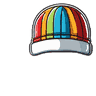
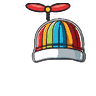
keybeasts: the propeller cap gets a propeller
New sprite with a red two-blade propeller on top of the rainbow cap, renamed from Regenboogpet to Propellerpet and placed slightly smaller so the propeller stays in frame.

diff --git a/plugins/keybeasts/hooks/anchors.ts b/plugins/keybeasts/hooks/anchors.ts
@@ -19,7 +19,7 @@ export const HAT_PLACE: Record<string, Record<string, { x: number; y: number; w:
     muts: { x: 16.8, y: -10.7, w: 125.2 },
     koptelefoon: { x: 24.0, y: 23.0, w: 112 },
     cowboyhoed: { x: 21.8, y: -11.7, w: 110.7 },
-    propellerpet: { x: 18.1, y: -2.1, w: 98.2 },
+    propellerpet: { x: 25.2, y: -2.0, w: 94.7 },
     hogehoed: { x: 31.9, y: -3.4, w: 84.0 },
     piratenhoed: { x: 35.2, y: -12.1, w: 89.6 },
     tovenaarshoed: { x: 40.8, y: -3.9, w: 78.4 },
@@ -32,7 +32,7 @@ export const HAT_PLACE: Record<string, Record<string, { x: number; y: number; w:
     muts: { x: 16.8, y: -10.7, w: 125.2 },
     koptelefoon: { x: 24.0, y: 23.0, w: 112 },
     cowboyhoed: { x: 21.8, y: -11.7, w: 110.7 },
-    propellerpet: { x: 18.1, y: -2.1, w: 98.2 },
+    propellerpet: { x: 25.2, y: -2.0, w: 94.7 },
     hogehoed: { x: 31.9, y: -3.4, w: 84.0 },
     piratenhoed: { x: 35.2, y: -12.1, w: 89.6 },
     tovenaarshoed: { x: 40.8, y: -3.9, w: 78.4 },
@@ -45,7 +45,7 @@ export const HAT_PLACE: Record<string, Record<string, { x: number; y: number; w:
     muts: { x: 16.8, y: -10.7, w: 125.2 },
     koptelefoon: { x: 24.0, y: 23.0, w: 112 },
     cowboyhoed: { x: 21.8, y: -11.7, w: 110.7 },
-    propellerpet: { x: 18.1, y: -2.1, w: 98.2 },
+    propellerpet: { x: 25.2, y: -2.0, w: 94.7 },
     hogehoed: { x: 31.9, y: -3.4, w: 84.0 },
     piratenhoed: { x: 35.2, y: -12.1, w: 89.6 },
     tovenaarshoed: { x: 40.8, y: -3.9, w: 78.4 },
@@ -58,7 +58,7 @@ export const HAT_PLACE: Record<string, Record<string, { x: number; y: number; w:
     muts: { x: 16.8, y: -10.7, w: 125.2 },
     koptelefoon: { x: 24.0, y: 23.0, w: 112 },
     cowboyhoed: { x: 21.8, y: -11.7, w: 110.7 },
-    propellerpet: { x: 18.1, y: -2.1, w: 98.2 },
+    propellerpet: { x: 25.2, y: -2.0, w: 94.7 },
     hogehoed: { x: 31.9, y: -3.4, w: 84.0 },
     piratenhoed: { x: 35.2, y: -12.1, w: 89.6 },
     tovenaarshoed: { x: 40.8, y: -3.9, w: 78.4 },
@@ -71,7 +71,7 @@ export const HAT_PLACE: Record<string, Record<string, { x: number; y: number; w:
     muts: { x: 16.8, y: -10.7, w: 125.2 },
     koptelefoon: { x: 24.0, y: 23.0, w: 112 },
     cowboyhoed: { x: 21.8, y: -11.7, w: 110.7 },
-    propellerpet: { x: 18.1, y: -2.1, w: 98.2 },
+    propellerpet: { x: 25.2, y: -2.0, w: 94.7 },
     hogehoed: { x: 31.9, y: -3.4, w: 84.0 },
     piratenhoed: { x: 35.2, y: -12.1, w: 89.6 },
     tovenaarshoed: { x: 40.8, y: -3.9, w: 78.4 },
@@ -84,7 +84,7 @@ export const HAT_PLACE: Record<string, Record<string, { x: number; y: number; w:
     muts: { x: 16.8, y: -10.7, w: 125.2 },
     koptelefoon: { x: 24.0, y: 23.0, w: 112 },
     cowboyhoed: { x: 21.8, y: -11.7, w: 110.7 },
-    propellerpet: { x: 18.1, y: -2.1, w: 98.2 },
+    propellerpet: { x: 25.2, y: -2.0, w: 94.7 },
     hogehoed: { x: 31.9, y: -3.4, w: 84.0 },
     piratenhoed: { x: 35.2, y: -12.1, w: 89.6 },
     tovenaarshoed: { x: 40.8, y: -3.9, w: 78.4 },
@@ -97,7 +97,7 @@ export const HAT_PLACE: Record<string, Record<string, { x: number; y: number; w:
     muts: { x: 16.8, y: -10.7, w: 125.2 },
     koptelefoon: { x: 24.0, y: 23.0, w: 112 },
     cowboyhoed: { x: 21.8, y: -11.7, w: 110.7 },
-    propellerpet: { x: 18.1, y: -2.1, w: 98.2 },
+    propellerpet: { x: 25.2, y: -2.0, w: 94.7 },
     hogehoed: { x: 31.9, y: -3.4, w: 84.0 },
     piratenhoed: { x: 35.2, y: -12.1, w: 89.6 },
     tovenaarshoed: { x: 40.8, y: -3.9, w: 78.4 },
@@ -110,7 +110,7 @@ export const HAT_PLACE: Record<string, Record<string, { x: number; y: number; w:
     muts: { x: 16.8, y: -10.7, w: 125.2 },
     koptelefoon: { x: 24.0, y: 23.0, w: 112 },
     cowboyhoed: { x: 21.8, y: -11.7, w: 110.7 },
-    propellerpet: { x: 18.1, y: -2.1, w: 98.2 },
+    propellerpet: { x: 25.2, y: -2.0, w: 94.7 },
     hogehoed: { x: 31.9, y: -3.4, w: 84.0 },
     piratenhoed: { x: 35.2, y: -12.1, w: 89.6 },
     tovenaarshoed: { x: 40.8, y: -3.9, w: 78.4 },
@@ -123,7 +123,7 @@ export const HAT_PLACE: Record<string, Record<string, { x: number; y: number; w:
     muts: { x: 16.8, y: -10.7, w: 125.2 },
     koptelefoon: { x: 24.0, y: 23.0, w: 112 },
     cowboyhoed: { x: 21.8, y: -11.7, w: 110.7 },
-    propellerpet: { x: 18.1, y: -2.1, w: 98.2 },
+    propellerpet: { x: 25.2, y: -2.0, w: 94.7 },
     hogehoed: { x: 31.9, y: -3.4, w: 84.0 },
     piratenhoed: { x: 35.2, y: -12.1, w: 89.6 },
     tovenaarshoed: { x: 40.8, y: -3.9, w: 78.4 },
@@ -136,7 +136,7 @@ export const HAT_PLACE: Record<string, Record<string, { x: number; y: number; w:
     muts: { x: 16.8, y: -10.7, w: 125.2 },
     koptelefoon: { x: 24.0, y: 23.0, w: 112 },
     cowboyhoed: { x: 21.8, y: -11.7, w: 110.7 },
-    propellerpet: { x: 18.1, y: -2.1, w: 98.2 },
+    propellerpet: { x: 25.2, y: -2.0, w: 94.7 },
     hogehoed: { x: 31.9, y: -3.4, w: 84.0 },
     piratenhoed: { x: 35.2, y: -12.1, w: 89.6 },
     tovenaarshoed: { x: 40.8, y: -3.9, w: 78.4 },

diff --git a/plugins/keybeasts/hooks/data.ts b/plugins/keybeasts/hooks/data.ts
@@ -75,7 +75,7 @@ export const ITEMS: readonly Item[] = [
   { id: 'zzz', name: 'Zzz', slot: 'emote', rarity: 'gewoon' },
   { id: 'koptelefoon', name: 'Koptelefoon', slot: 'hoed', rarity: 'ongewoon' },
   { id: 'cowboyhoed', name: 'Cowboyhoed', slot: 'hoed', rarity: 'ongewoon' },
-  { id: 'propellerpet', name: 'Regenboogpet', slot: 'hoed', rarity: 'ongewoon' },
+  { id: 'propellerpet', name: 'Propellerpet', slot: 'hoed', rarity: 'ongewoon' },
   { id: 'drums', name: 'Drums', slot: 'instrument', rarity: 'ongewoon' },
   { id: 'vuur', name: 'Vuur', slot: 'emote', rarity: 'ongewoon' },
   { id: 'uitroep', name: 'Uitroepteken', slot: 'emote', rarity: 'ongewoon' },
